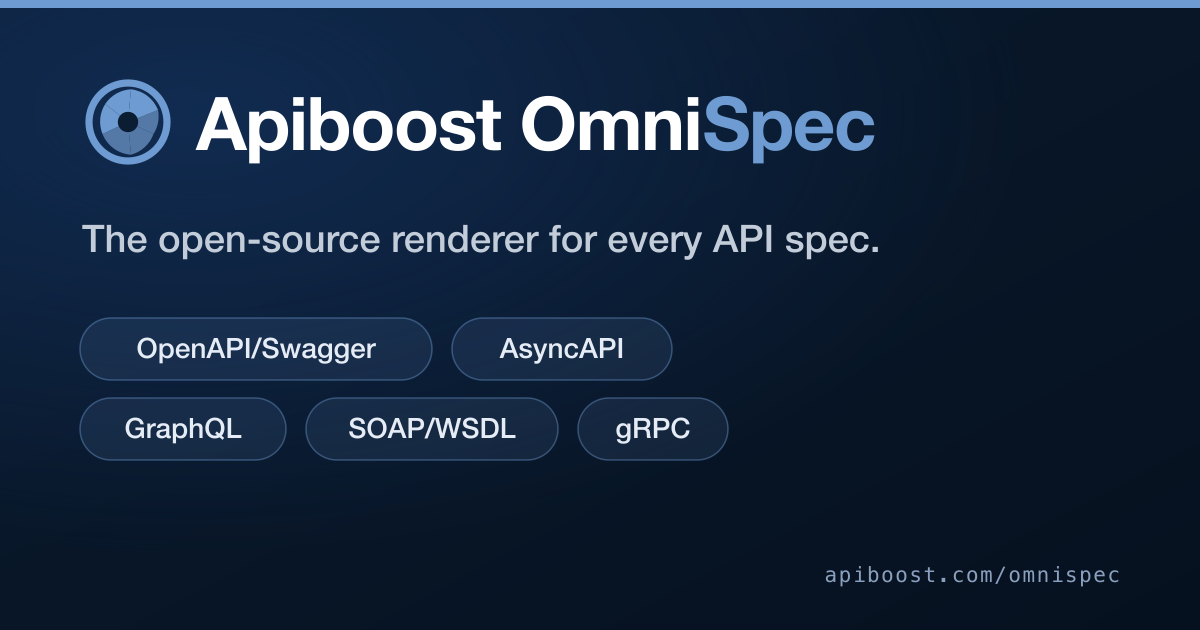
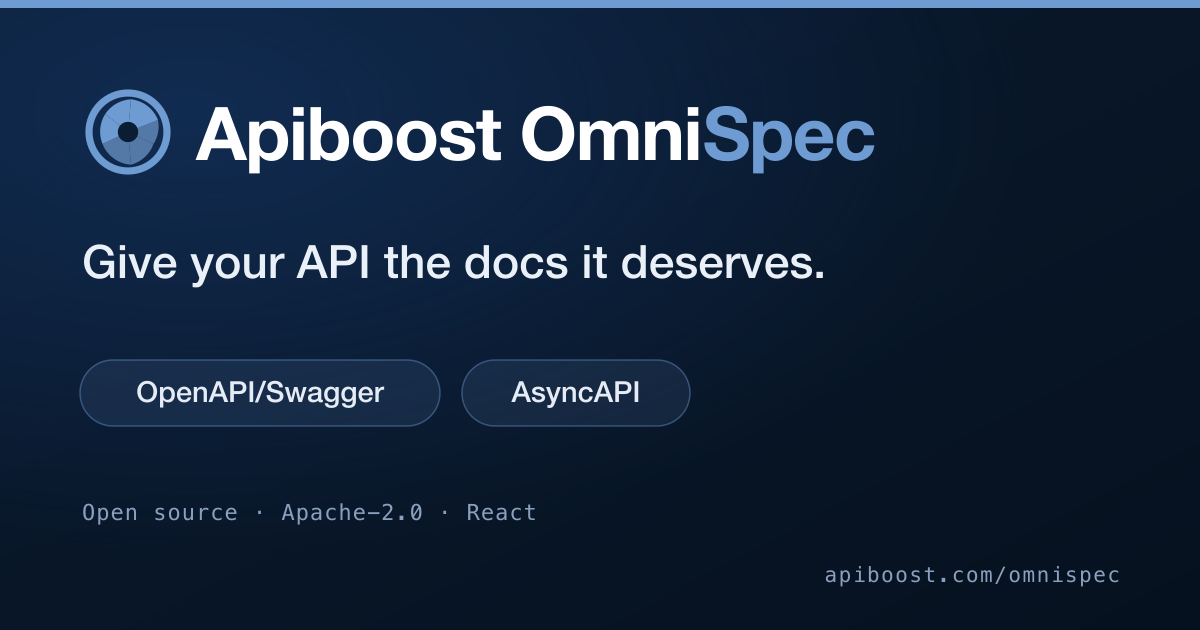
docs: keep OSS-core docs core-only — drop Pro pages, chips, and Pro SEO
The docs had drifted into promoting Pro features (GraphQL/SOAP/gRPC) as if
they ship in the Apache-2.0 core — including the og:image and SEO keywords.

- Delete the dedicated Pro renderer pages (grpc/graphql/soap-support) and
  the "Pro renderers" sidebar category; Pro coverage stays via free-vs-pro
  and inline info[Pro] callouts
- Rebuild the og:image: core specs only (OpenAPI/Swagger + AsyncAPI), full
  "Apiboost OmniSpec" wordmark, tagline "Give your API the docs it deserves."
- Strip Pro spec names from keywords and og:image:alt; refocus the intro
  lede on the core (Pro origin-story mentions kept but scoped to Pro)
- Codify the rule in CLAUDE.md ("Free vs Pro in the Docs")

Assisted-by: Claude Opus 4.8

diff --git a/website/docusaurus.config.ts b/website/docusaurus.config.ts
@@ -87,14 +87,14 @@ const config: Config = {
       {
         name: 'keywords',
         content:
-          'OmniSpec, OpenAPI, Swagger, AsyncAPI, GraphQL, SOAP, WSDL, gRPC, API documentation, React API docs renderer, Try-It, code samples, Web Component, open source, Redoc and SwaggerUI alternative',
+          'OmniSpec, OpenAPI, Swagger, AsyncAPI, API documentation, React API docs renderer, Try-It, code samples, Web Component, open source, Redoc and SwaggerUI alternative',
       },
       { property: 'og:type', content: 'website' },
       { property: 'og:image:width', content: '1200' },
       { property: 'og:image:height', content: '630' },
       {
         property: 'og:image:alt',
-        content: 'Apiboost OmniSpec — the open-source renderer for every API spec',
+        content: 'Apiboost OmniSpec — open-source renderer for OpenAPI and AsyncAPI documentation',
       },
       { name: 'twitter:card', content: 'summary_large_image' },
     ],

diff --git a/website/sidebars.ts b/website/sidebars.ts
@@ -64,11 +64,6 @@ const sidebars: SidebarsConfig = {
       label: 'Advanced',
       items: ['security'],
     },
-    {
-      type: 'category',
-      label: 'Pro renderers',
-      items: ['graphql-support', 'soap-support', 'grpc-support'],
-    },
   ],
 };
 

diff --git a/CLAUDE.md b/CLAUDE.md
@@ -21,6 +21,20 @@ Bare **"OmniSpec"** is acceptable in ordinary prose and headings once context is
 
 Do **not** present OmniSpec as an independent brand (a "House of Brands" pattern) — no naming or lockup that divorces it from Apiboost.
 
+## Free vs Pro in the Docs
+
+This is the **OSS core** package and its public docs site. **Document only what ships in the Apache-2.0 core.** Pro (GraphQL, SOAP/WSDL, gRPC renderers, `theme.overrides`, interactive OAuth, etc.) appears in exactly two forms:
+
+1. **A callout** — an inline `:::info[Pro]` note where a core feature has a Pro extension, always stating the free fallback, plus the single `free-vs-pro.md` page.
+2. **A comparison table** — the Free-vs-Pro table (on `free-vs-pro.md`, and the short one on the intro page).
+
+Do **not** add:
+
+- Dedicated pages that document a Pro feature (e.g. a GraphQL/SOAP/gRPC "how it renders" page).
+- Pro feature names in **SEO/meta** — page `keywords`, `og:*`/`twitter:*` tags, the `og:image` graphic, or the site tagline. These must reflect the core (OpenAPI/Swagger + AsyncAPI) so shared links and search never imply Pro renderers ship in the free package.
+
+Rationale: legal clarity (the Apache-2.0 package must not be marketed as containing proprietary renderers) and honest positioning. Pro is sold and documented at apiboost.com/omnispec.
+
 ## Quick Reference
 
 ```bash
